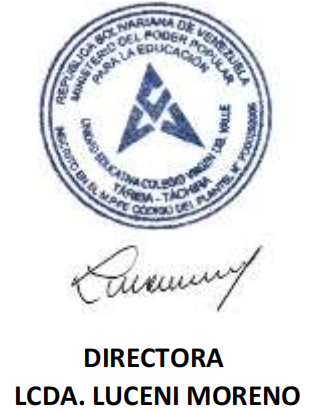
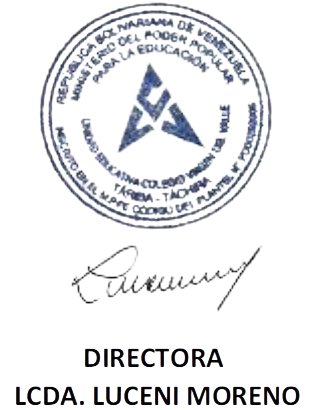
cambios

diff --git a/resources/views/Pdfs/StudentNote.blade.php b/resources/views/Pdfs/StudentNote.blade.php
@@ -147,8 +147,9 @@
             <table style="500px">
                 <tr>
                     <td align="center">
-                        <img src="https://quwonh.stripocdn.email/content/guids/CABINET_9f6aac012eefaebdd0a78bd7310efde25b299a63237f8900b2018ccd3e36252a/images/captura_de_pantalla_20240128_225603.png"
-                            style="max-width: 150px !important;">
+                        <img src="{{ public_path('img/firma.png') }}" style="max-width: 150px !important;">
+                        {{-- <img src="https://quwonh.stripocdn.email/content/guids/CABINET_9f6aac012eefaebdd0a78bd7310efde25b299a63237f8900b2018ccd3e36252a/images/captura_de_pantalla_20240128_225603.png"
+                            style="max-width: 150px !important;"> --}}
                     </td>
                 </tr>
                 <tr>
@@ -158,7 +159,7 @@
                         @endphp
 
 
-                        <span>{{ $data["date"] }}</span>
+                        <span>{{ $data['date'] }}</span>
                     </td>
                 </tr>
             </table>

diff --git a/app/Http/Controllers/PwController.php b/app/Http/Controllers/PwController.php
@@ -195,7 +195,7 @@ class PwController extends Controller
             if ($student) {
                 $pdf = $this->studentRepository->pdf('Pdfs.StudentNote', [
                     'student' => $student,
-                    "date" => $fecha->translatedFormat('l, j \\de F \\de Y')
+                    "date" => $fecha->translatedFormat('l, j \\de F \\de Y'),
                 ], 'Notas');
 
                 $pdf = base64_encode($pdf);
